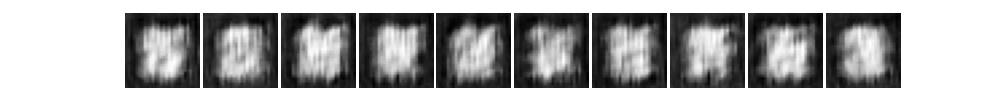
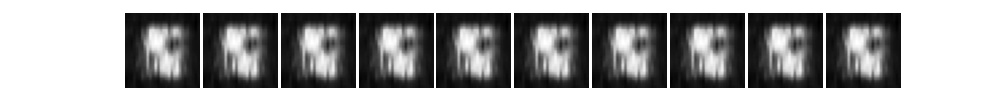
messing w/ params

diff --git a/train_vae.py b/train_vae.py
@@ -27,7 +27,7 @@ def main(config):
    hidden_dim = config.hidden_dim
    learning_rate = config.learning_rate
    channels = config.channels
-   output = config.output
+   # output = config.output
 
    dvae = dVAE(num_tokens, codebook_dim, hidden_dim, channels)
    opt = Adam(dvae.parameters(), lr = learning_rate)
@@ -43,9 +43,12 @@ def main(config):
    temp = 1.
    step = 0
    plt.figure(figsize=(10, 1))
-   
-   for epoch in range(epochs):
 
+   with open('{}/config.txt'.format('./dvae_generation'), 'w') as f:
+      for i in vars(config):
+         f.write('{} = {} \n'.format(i, getattr(config, i)))
+
+   for epoch in range(epochs):
       dvae.train()
       j = 10
 
@@ -76,7 +79,7 @@ def main(config):
                   ax.set_yticklabels([])
                   ax.set_aspect('equal')
                   plt.imshow(sample.reshape(28, 28), cmap='Greys_r')
-               plt.savefig(os.path.join(output, 'dvae_generationE{}.jpg'.format(epoch)))
+               plt.savefig(os.path.join('./dvae_generation', 'dvae_generationE{}.jpg'.format(epoch)))
 
             temp = max(temp * math.exp(-1e-6 * step), 0.5)
 
@@ -89,7 +92,7 @@ if __name__ == '__main__':
    args = argparse.ArgumentParser()
    
    args.add_argument('--epochs', type = int, default = 10)
-   args.add_argument('--batch_size', type = int, default = 128)
+   args.add_argument('--batch_size', type = int, default = 256)
    # args.add_argument('--image_size', type = int, default = 28) # MNIST
    # args.add_argument('--image_path', type = str, default = './')
    args.add_argument('--num_tokens', type = int, default = 256)
@@ -97,7 +100,7 @@ if __name__ == '__main__':
    args.add_argument('--hidden_dim', type = int, default = 128)
    args.add_argument('--learning_rate', type = float, default = 1e-3)
    args.add_argument('--channels', type = int, default = 1) # MNIST is b/w
-   args.add_argument('--output', type = str, default = './dvae_generation')
+   # args.add_argument('--output', type = str, default = './dvae_generation')
 
    config = args.parse_args()
 

diff --git a/model/dvae.py b/model/dvae.py
@@ -78,24 +78,18 @@ class dVAE(nn.Module):
       dec(tokens) -> out -> ELBO(img, out) = loss
       """
 
-      # Encoder
-
       # assert log2(img.shape[0]).is_integer()
       logits = self.encoder(img) # (B, tokens, H', W')
       if return_logits:
          return logits
 
-      # Decoder
-
-      cont_one_hot = F.gumbel_softmax(logits.permute(0, 2, 3, 1), tau = temp) # (B, tokens, H', W') -> (B, H', W', tokens)
-      tokens = torch.matmul(cont_one_hot, self.codebook.weight).permute(0, 3, 1, 2) # (B, H', W', dim) -> (B, dim, H', W')
-      # test2 = einsum('b h w n, n d -> b d h w', cont_one_hot, self.codebook.weight)
+      # Disretizing logits 
+      gumbel_logit = F.gumbel_softmax(logits.permute(0, 2, 3, 1), tau = temp) # (B, tokens, H', W') -> (B, H', W', tokens)
+      # Training codebook
+      tokens = torch.matmul(gumbel_logit, self.codebook.weight).permute(0, 3, 1, 2) # (B, H', W', dim) -> (B, dim, H', W')
       out = self.decoder(tokens) # (B, 3, H, W)
 
-      # Loss
-
       recon_loss = F.mse_loss(img, out)
-      # recon_loss = F.smooth_l1_loss(img, out)
 
       logits = logits.permute(0, 2, 3, 1).flatten(start_dim = 1, end_dim = -2) # (B, H', W', tokens) -> (B, H' * W', tokens)
       logits = F.log_softmax(logits, dim = -1)
@@ -112,6 +106,6 @@ class dVAE(nn.Module):
 # input = torch.rand((20, 1, 28, 28))
 # loss, out = model(input, temp = 1.)
 # print(loss, out.shape, 'toad')
-# j = model.hard_indices(input)
-# y = model.codebook_decode(j)
-# print(y.shape, 'toad')
+# # j = model.hard_indices(input)
+# # y = model.codebook_decode(j)
+# # print(y.shape, 'toad')

diff --git a/README.md b/README.md
@@ -3,7 +3,7 @@ Understanding the DALL-E model by trying to build a *much* smaller one. <a href=
 
 Unfortunately all training will probably be cut short because I'm not comfortable with my 1070 FE sitting at 90c for long periods of time.
 
-## Updates
+## Updates (mm/dd/yy)
 
 ### 9/4/22
 Partially trained dVAE on the MNIST dataset.
@@ -15,14 +15,14 @@ tokens = 256
 codebook_dim = 256
 hidden_dim = 128
 lr = 1e-3
-channel = 1 # Maybe try RGB some time later :)
+channels = 1 # Maybe try RGB some time later :)
 ```
 
 <p align='center'>
 400th iteration, 0th epoch
-<img src='./dvae_generation/dvae_generationE0.jpg'>
+<img src='./dvae_generation/9-4-22/dvae_generationE0.jpg'>
 400th iteration, 1st epoch
-<img src='./dvae_generation/dvae_generationE1.jpg'>
+<img src='./dvae_generation/9-4-22/dvae_generationE1.jpg'>
 0th iteration, 2nd epoch
-<img src='./dvae_generation/dvae_generationE2.jpg'>
+<img src='./dvae_generation/9-4-22/dvae_generationE2.jpg'>
 </p>
